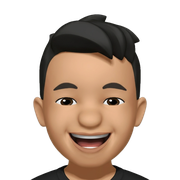
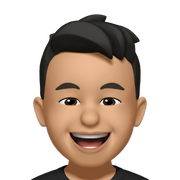
Move Memoji eyes closer together and make nose slightly smaller

diff --git a/index.html b/index.html
@@ -9,18 +9,18 @@
   <meta property="og:type" content="website">
   <meta property="og:url" content="https://www.ianyen.net">
   <meta property="og:image" content="https://static.wixstatic.com/media/e3505c_be17f726b32b4db4ad22df27afc0833b%7Emv2.jpg/v1/fit/w_2500,h_1330,al_c/e3505c_be17f726b32b4db4ad22df27afc0833b%7Emv2.jpg">
-  <link rel="icon" href="favicon.png?v=196" type="image/png">
-  <link rel="apple-touch-icon" href="apple-touch-icon.png?v=196">
+  <link rel="icon" href="favicon.png?v=197" type="image/png">
+  <link rel="apple-touch-icon" href="apple-touch-icon.png?v=197">
   <link rel="preconnect" href="https://fonts.googleapis.com">
   <link rel="preconnect" href="https://fonts.gstatic.com" crossorigin>
   <link href="https://api.fontshare.com/v2/css?f[]=tanker@400&display=swap" rel="stylesheet">
   <link href="https://fonts.googleapis.com/css2?family=Big+Shoulders+Display:wght@600;700;800;900&family=Caveat:wght@500;600;700&family=Fraunces:ital,opsz,wght@0,9..144,100..900;1,9..144,100..900&family=Geist+Mono:wght@400;500;600&family=Geist:wght@300;400;500;600;700&family=Inter:wght@300;400;500;600&display=swap" rel="stylesheet">
   <link rel="preload" as="font" type="font/ttf" href="assets/fonts/GoogleSansFlex-Variable.ttf" crossorigin>
   <link rel="preload" as="font" type="font/ttf" href="assets/fonts/GoogleSansMono-Variable.ttf" crossorigin>
-  <link rel="preload" as="image" href="assets/memoji_about_bust.gif?v=196" fetchpriority="high">
-  <link rel="preload" as="image" href="assets/memoji_hero_sitting_wave.gif?v=196" fetchpriority="high">
+  <link rel="preload" as="image" href="assets/memoji_about_bust.gif?v=197" fetchpriority="high">
+  <link rel="preload" as="image" href="assets/memoji_hero_sitting_wave.gif?v=197" fetchpriority="high">
   <link rel="preload" as="image" href="assets/avatar_real_photo.jpg?v=153" fetchpriority="high">
-  <link rel="stylesheet" href="style.css?v=196">
+  <link rel="stylesheet" href="style.css?v=197">
 </head>
 <body data-theme="light">
 
@@ -129,7 +129,7 @@
               <span class="hero-hover-word is-designing-word">
                 <span class="hero-word-text">Designing</span>
                 <span class="hero-sitting-memoji" aria-hidden="true">
-                  <img src="assets/memoji_hero_sitting_wave.gif?v=196" alt="" class="hero-sitting-memoji-img" decoding="sync">
+                  <img src="assets/memoji_hero_sitting_wave.gif?v=197" alt="" class="hero-sitting-memoji-img" decoding="sync">
                 </span>
               </span> <br class="hero-mobile-break"><span class="hero-hover-word is-ai-word">AI</span> <span class="hero-hover-word">products</span><br><span class="text-accent"><span class="hero-hover-word is-accent">people</span> <span class="hero-hover-word is-accent">trust.</span></span>
             </h1>
@@ -510,7 +510,7 @@
         <div class="avatar-stage is-transparent-gif framer-reveal" style="--reveal-delay: 0.08s;" aria-label="Ian Yen interactive avatar — alternates with real photo">
           <div class="avatar-tilt-card">
             <div class="avatar-img-circle" data-avatar-circle>
-              <img src="assets/memoji_about_bust.gif?v=196" alt="Ian Yen Apple Memoji avatar" class="hero-transparent-gif" fetchpriority="high" decoding="sync" data-avatar-img>
+              <img src="assets/memoji_about_bust.gif?v=197" alt="Ian Yen Apple Memoji avatar" class="hero-transparent-gif" fetchpriority="high" decoding="sync" data-avatar-img>
               <div class="avatar-real-reveal" aria-hidden="true">
                 <img src="assets/avatar_real_photo.jpg?v=153" alt="Ian Yen" fetchpriority="high" decoding="sync">
               </div>
@@ -598,6 +598,6 @@
     </div>
   </footer>
 
-  <script src="script.js?v=196"></script>
+  <script src="script.js?v=197"></script>
 </body>
 </html>

diff --git a/sharing-design-system.html b/sharing-design-system.html
@@ -5,8 +5,8 @@
   <meta name="viewport" content="width=device-width, initial-scale=1.0">
   <title>Sharing Design System | Ian Yen</title>
   <meta name="description" content="ShareKit: A Sharing Design System Built for Growth — Case Study by Ian Yen">
-  <link rel="icon" href="favicon.png?v=196" type="image/png">
-  <link rel="apple-touch-icon" href="apple-touch-icon.png?v=196">
+  <link rel="icon" href="favicon.png?v=197" type="image/png">
+  <link rel="apple-touch-icon" href="apple-touch-icon.png?v=197">
 
   <!-- Fonts -->
   <link rel="preconnect" href="https://fonts.googleapis.com">
@@ -16,7 +16,7 @@
 
   <link rel="preload" as="font" type="font/ttf" href="assets/fonts/GoogleSansFlex-Variable.ttf" crossorigin>
   <link rel="preload" as="font" type="font/ttf" href="assets/fonts/GoogleSansMono-Variable.ttf" crossorigin>
-  <link rel="stylesheet" href="style.css?v=196">
+  <link rel="stylesheet" href="style.css?v=197">
 </head>
 <body data-theme="light" id="top" class="case-study-body is-locked">
[1 lines of base64/hex data omitted]
@@ -1072,6 +1072,6 @@
   </footer>
 
 
-  <script src="script.js?v=196"></script>
+  <script src="script.js?v=197"></script>
 </body>
 </html>

diff --git a/ai-in-contacts.html b/ai-in-contacts.html
@@ -5,8 +5,8 @@
   <meta name="viewport" content="width=device-width, initial-scale=1.0">
   <title>AI Contact Intelligence | Ian Yen</title>
   <meta name="description" content="Google Contacts: AI-Powered Contact Intelligence — Case Study by Ian Yen">
-  <link rel="icon" href="favicon.png?v=196" type="image/png">
-  <link rel="apple-touch-icon" href="apple-touch-icon.png?v=196">
+  <link rel="icon" href="favicon.png?v=197" type="image/png">
+  <link rel="apple-touch-icon" href="apple-touch-icon.png?v=197">
 
   <!-- Fonts -->
   <link rel="preconnect" href="https://fonts.googleapis.com">
@@ -16,7 +16,7 @@
 
   <link rel="preload" as="font" type="font/ttf" href="assets/fonts/GoogleSansFlex-Variable.ttf" crossorigin>
   <link rel="preload" as="font" type="font/ttf" href="assets/fonts/GoogleSansMono-Variable.ttf" crossorigin>
-  <link rel="stylesheet" href="style.css?v=196">
+  <link rel="stylesheet" href="style.css?v=197">
 </head>
 <body data-theme="light" id="top" class="case-study-body is-locked">
[1 lines of base64/hex data omitted]
@@ -769,6 +769,6 @@
   </footer>
 
 
-  <script src="script.js?v=196"></script>
+  <script src="script.js?v=197"></script>
 </body>
 </html>

diff --git a/google-contacts.html b/google-contacts.html
@@ -5,8 +5,8 @@
   <meta name="viewport" content="width=device-width, initial-scale=1.0">
   <title>Contacts Editor Redesign | Ian Yen</title>
   <meta name="description" content="Redesigning Contacts Editor At Scale — Case Study by Ian Yen">
-  <link rel="icon" href="favicon.png?v=196" type="image/png">
-  <link rel="apple-touch-icon" href="apple-touch-icon.png?v=196">
+  <link rel="icon" href="favicon.png?v=197" type="image/png">
+  <link rel="apple-touch-icon" href="apple-touch-icon.png?v=197">
 
   <!-- Fonts -->
   <link rel="preconnect" href="https://fonts.googleapis.com">
@@ -16,7 +16,7 @@
 
   <link rel="preload" as="font" type="font/ttf" href="assets/fonts/GoogleSansFlex-Variable.ttf" crossorigin>
   <link rel="preload" as="font" type="font/ttf" href="assets/fonts/GoogleSansMono-Variable.ttf" crossorigin>
-  <link rel="stylesheet" href="style.css?v=196">
+  <link rel="stylesheet" href="style.css?v=197">
 </head>
 <body data-theme="light" id="top" class="case-study-body is-locked">
[1 lines of base64/hex data omitted]
@@ -612,6 +612,6 @@
   </footer>
 
 
-  <script src="script.js?v=196"></script>
+  <script src="script.js?v=197"></script>
 </body>
 </html>

diff --git a/sonicare.html b/sonicare.html
@@ -5,8 +5,8 @@
   <meta name="viewport" content="width=device-width, initial-scale=1.0">
   <title>Philips Sonicare | Ian Yen</title>
   <meta name="description" content="Philips Sonicare Connected App Relaunch — Case Study by Ian Yen">
-  <link rel="icon" href="favicon.png?v=196" type="image/png">
-  <link rel="apple-touch-icon" href="apple-touch-icon.png?v=196">
+  <link rel="icon" href="favicon.png?v=197" type="image/png">
+  <link rel="apple-touch-icon" href="apple-touch-icon.png?v=197">
 
   <!-- Fonts -->
   <link rel="preconnect" href="https://fonts.googleapis.com">
@@ -16,7 +16,7 @@
 
   <link rel="preload" as="font" type="font/ttf" href="assets/fonts/GoogleSansFlex-Variable.ttf" crossorigin>
   <link rel="preload" as="font" type="font/ttf" href="assets/fonts/GoogleSansMono-Variable.ttf" crossorigin>
-  <link rel="stylesheet" href="style.css?v=196">
+  <link rel="stylesheet" href="style.css?v=197">
 </head>
 <body data-theme="light" id="top" class="case-study-body is-locked">
[1 lines of base64/hex data omitted]
@@ -494,6 +494,6 @@
   </footer>
 
 
-  <script src="script.js?v=196"></script>
+  <script src="script.js?v=197"></script>
 </body>
 </html>

diff --git a/script.js b/script.js
@@ -13,8 +13,8 @@
 
 // Immediately preload and decode the Apple Memoji avatars and real photo before DOMContentLoaded
 const AVATAR_GIF_VARIANTS = [
-  'assets/memoji_about_bust.png?v=196',
-  'assets/memoji_hero_sitting_wave.png?v=196',
+  'assets/memoji_about_bust.png?v=197',
+  'assets/memoji_hero_sitting_wave.png?v=197',
   'assets/avatar_real_photo.jpg?v=153',
 ];
 const preloadedAvatarGifs = AVATAR_GIF_VARIANTS.map((src) => {
